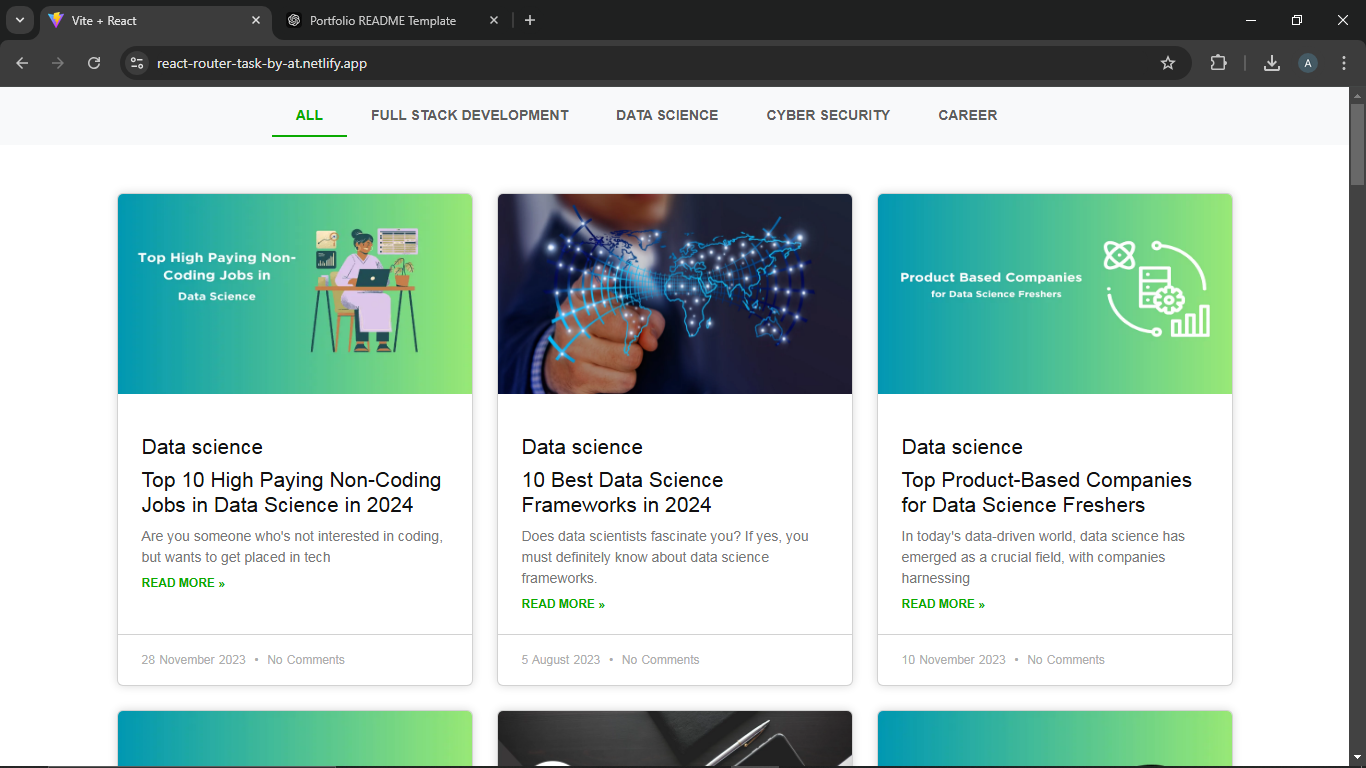
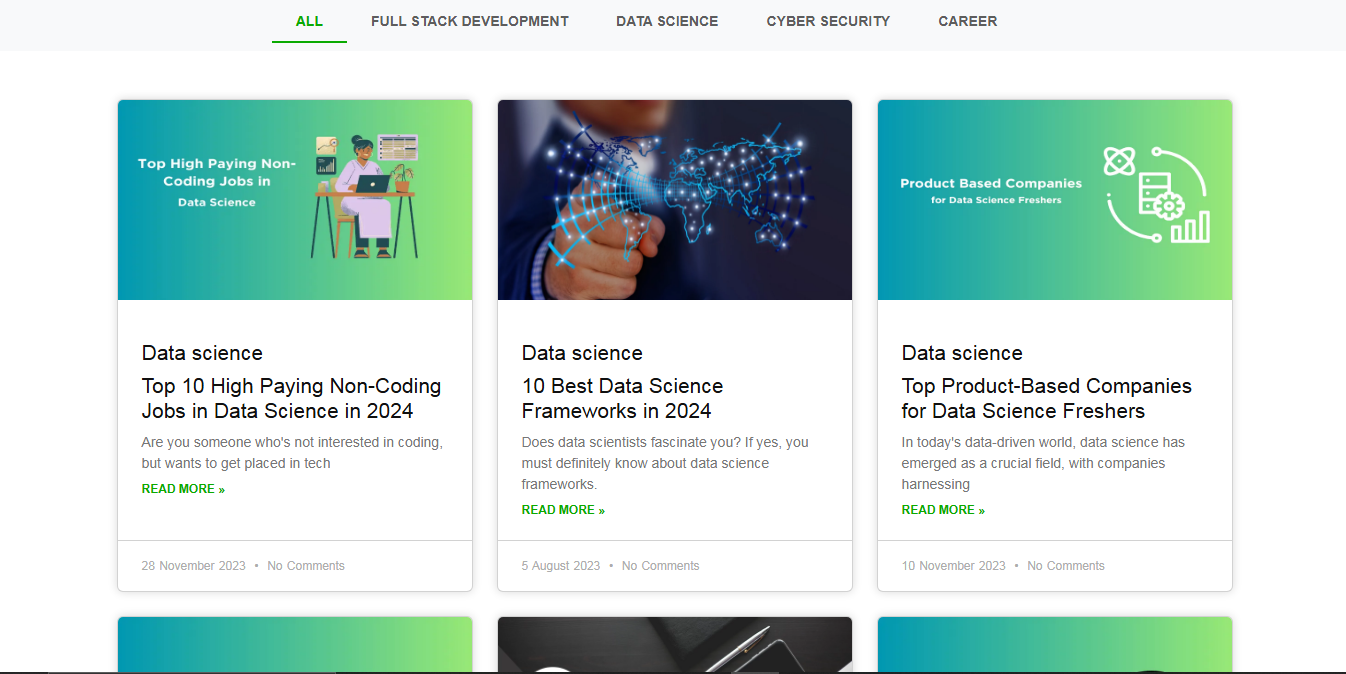
Image added

diff --git a/README.md b/README.md
@@ -6,7 +6,7 @@ This project is a simple React application demonstrating routing using `react-ro
 Check out the live version of the app here: [Learning Hub](https://react-router-task-by-at.netlify.app)
 
 ## Home Page
- ![Home Page]()
+ ![Home Page](https://github.com/abuiron/react-router-task/blob/main/public/front.png?raw=true)
 
 ## Project Overview
 This project is built to showcase the basic usage of React Router for single-page applications (SPA). It demonstrates how to set up routing and navigate between different views in a React app.
